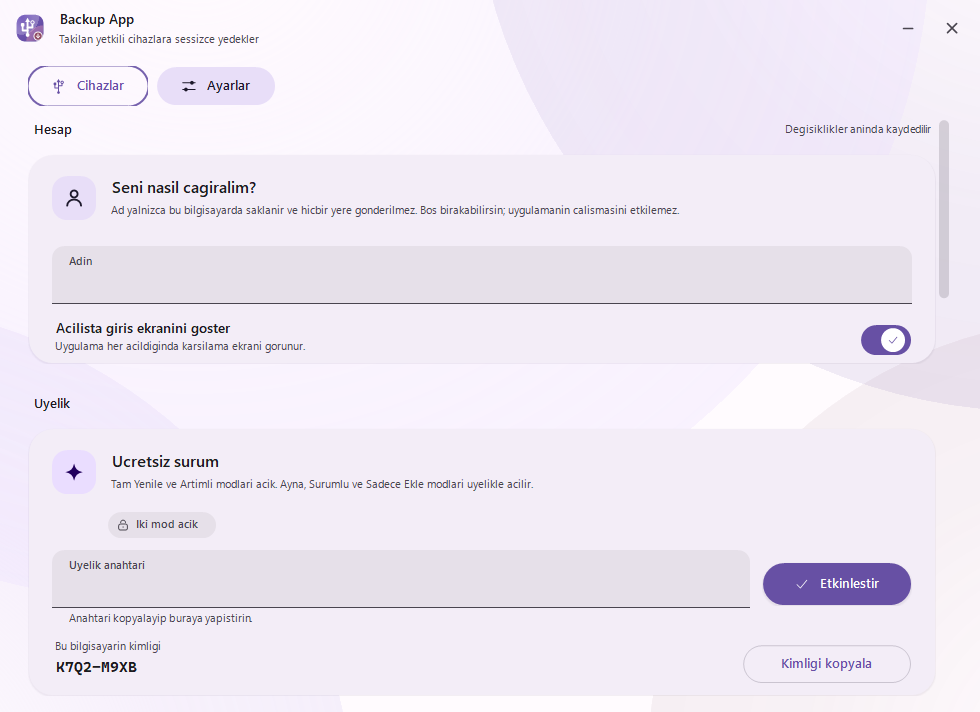
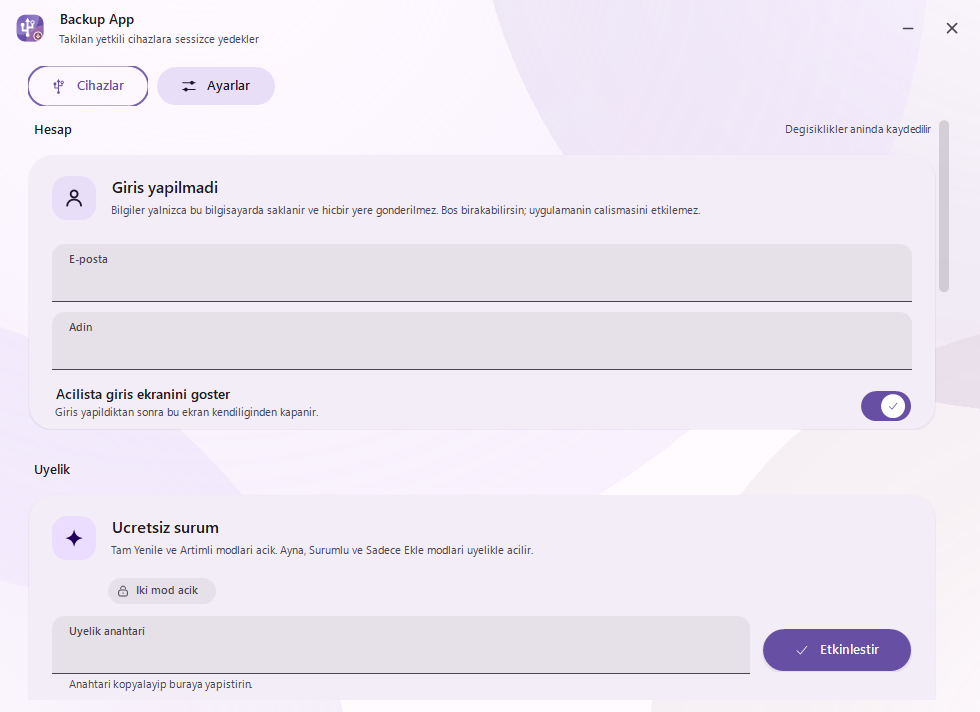
Giris ekrani: bir kez giris yapilinca bir daha cikmiyor
Ekran goruntuleri yenilendi (acik ve koyu).

diff --git a/docs/index.html b/docs/index.html
@@ -597,10 +597,11 @@ footer { border-top:1px solid var(--outline-variant); padding:44px 0 60px; }
           Değişiklikler anında kaydedilir; “Kaydet” adımı yoktur.</figcaption>
       </figure>
       <figure>
-        <div class="ekran-cerceve"><img src="assets/ekran-giris.png" loading="lazy" width="520" height="556"
+        <div class="ekran-cerceve"><img src="assets/ekran-giris.png" loading="lazy" width="520" height="620"
           alt="Giriş ekranı" data-ekran="giris"></div>
-        <figcaption><b>Giriş.</b> Açılışta karşılar: ad, üyelik anahtarı ve cihaz kimliği.
-          İsteğe bağlıdır — geçebilir, bir daha gösterilmemesini seçebilirsin.</figcaption>
+        <figcaption><b>Giriş.</b> Açılışta karşılar: e-posta, ad, üyelik anahtarı ve cihaz
+          kimliği. Bir kez giriş yaptıktan sonra bir daha çıkmaz — istersen hiç giriş
+          yapmadan da devam edebilirsin.</figcaption>
       </figure>
       <figure>
         <div class="ekran-cerceve"><img src="assets/ekran-cihaz-ekle.png" loading="lazy" width="640" height="846"
